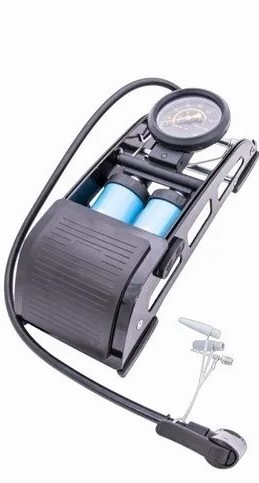
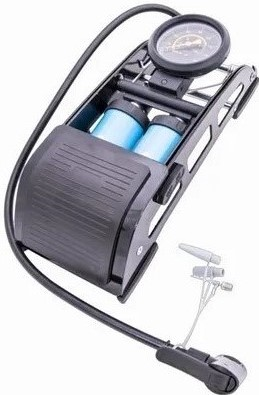
cambios en inicio

diff --git a/index.html b/index.html
@@ -113,7 +113,7 @@
 
       <div class="container imagenes-inicio">
         <h2 id="titulo-imagenes">Vea más de nuestros productos</h2>
-        <a href="./Infladores.html"><img src="./imagenes/inflador3.jpg" alt="" class="img-inicio" id="img-inflador"></a>
+        <a href="./Infladores.html"><img src="./imagenes/infladorinicio.jpg" alt="" class="img-inicio" id="img-inflador"></a>
         <a href="./Asientos.html"><img src="./imagenes/Asiento1.jpg" alt="" class="img-inicio"></a>
         <a href="./Cascos.html"><img src="./imagenes/casco1.jpg" alt="" class="img-inicio"></a>
         <a href="./Productos.html"><img src="./imagenes/bici1.jpg" alt="" class="img-inicio" id="img-bicis"></a>

diff --git a/css/index.css b/css/index.css
@@ -168,6 +168,10 @@ header{
     cursor:pointer;
     width: 30%;
 }
+
+#img-inflador{
+    width: 15%;
+}
 #img-inflador:hover{
     width: 16%;
 }
@@ -176,11 +180,11 @@ header{
     border-radius: 30px;
     margin-top: 5%;
     background-color: white;
+    padding: 2%;
+    box-shadow: 5px 5px 10px grey;
 }
 
-#img-inflador{
-    width: 15%;
-}
+
 
 .imagenes-inicio h2{
     text-align: center;
